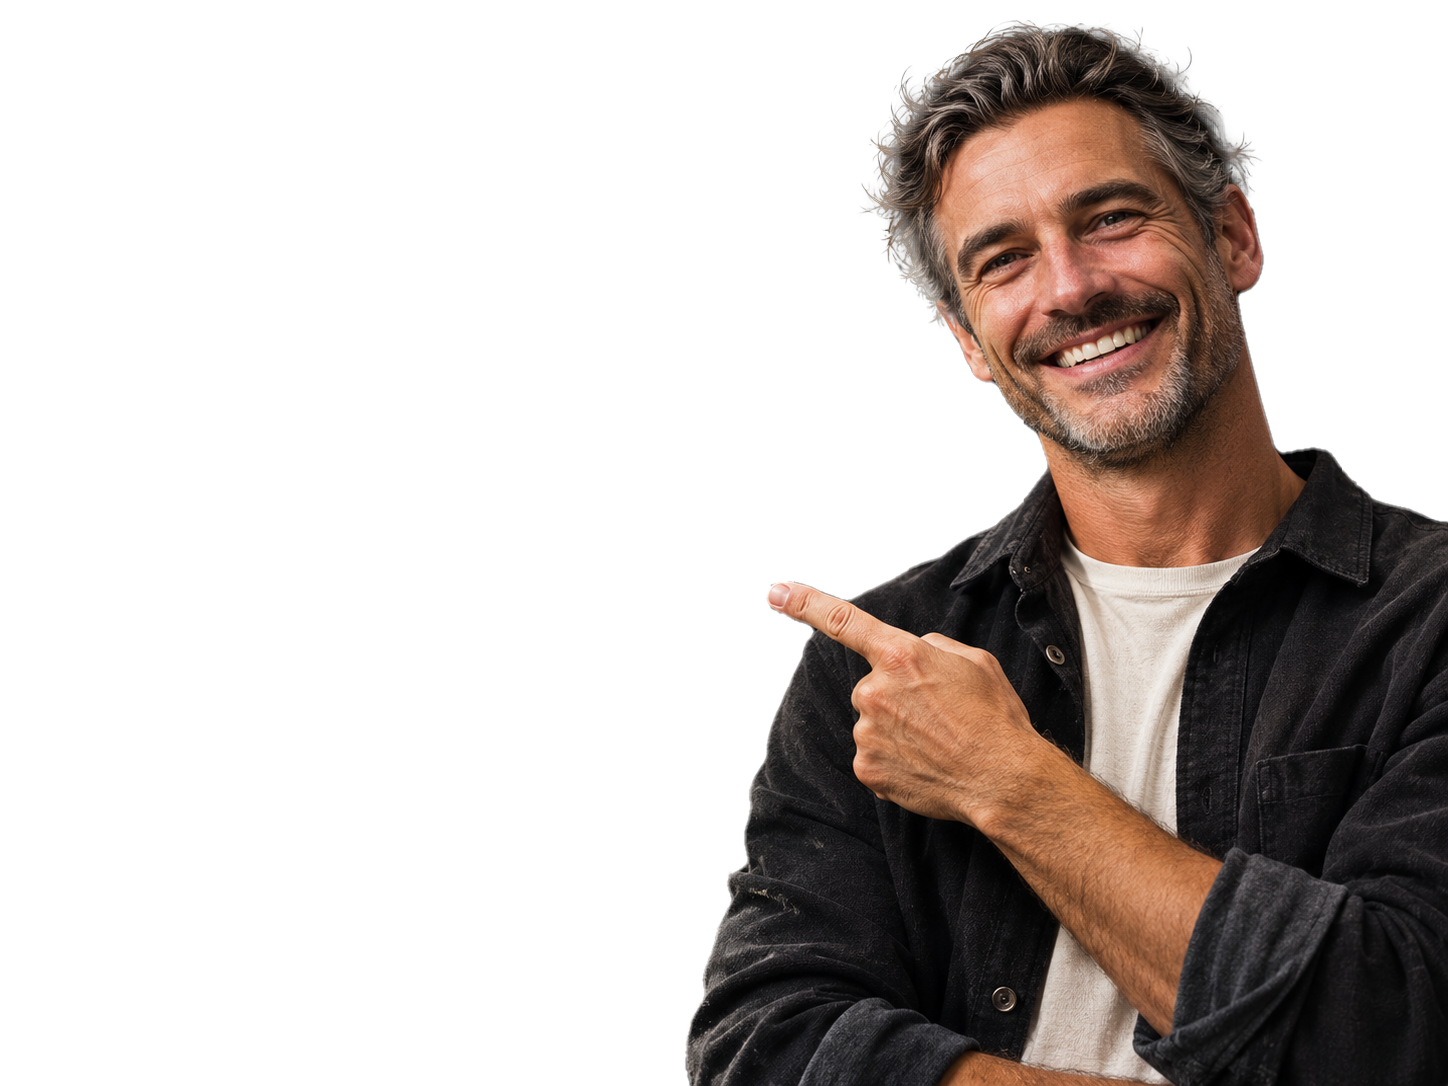
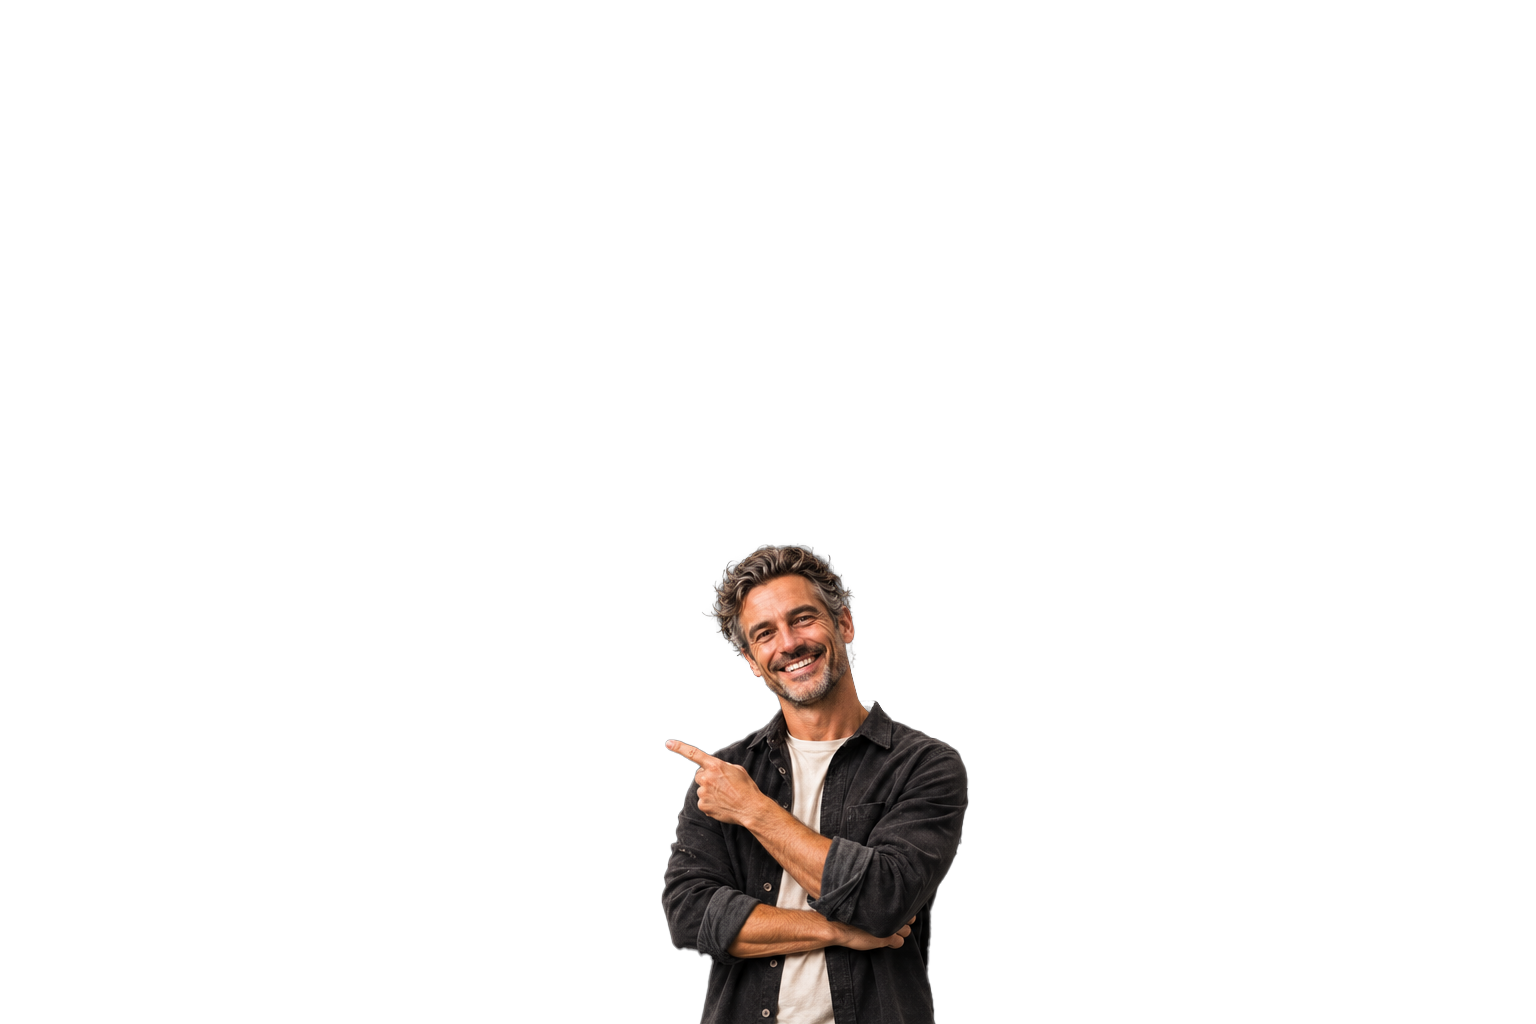
Update pointing man image to full-body version

diff --git a/index.html b/index.html
@@ -11,7 +11,7 @@
   <link href="https://fonts.googleapis.com/css2?family=Archivo+Black&family=Hanken+Grotesk:wght@400;500;600;700&family=IBM+Plex+Mono:wght@400;500;600;700&display=swap" rel="stylesheet">
   <link rel="stylesheet" href="css/style.css?v=20261025">
   <link rel="stylesheet" href="css/reviews.css?v=3">
-  <link rel="stylesheet" href="css/brutalist-theme.css?v=11">
+  <link rel="stylesheet" href="css/brutalist-theme.css?v=12">
   <script src="js/main.js" defer></script>
   <script src="js/reviews-data.js?v=1" defer></script>
   <script src="js/reviews.js?v=1" defer></script>
@@ -81,7 +81,7 @@
     </section>
     <section class="services-preview section-pad" id="services-preview">
       <div class="container">
-        <figure class="man-pointer"><img src="Images/man_pointing.png" alt="Smiling man pointing towards the services" width="1448" height="1086" loading="lazy" decoding="async"></figure>
+        <figure class="man-pointer"><img src="Images/man_pointing.png" alt="Smiling man pointing towards the services" width="1536" height="1024" loading="lazy" decoding="async"></figure>
         <div class="section-heading"><div><p class="eyebrow">Ways I can help</p><h2>Different needs call for<br><em>different builds.</em></h2></div><a class="text-link" href="services.html">More about services <span aria-hidden="true">→</span></a></div>
         <div class="service-cards">
           <a class="service-card" href="services.html#websites"><svg class="lo-art lo-build" viewBox="0 140 370 260" aria-hidden="true" focusable="false"><circle class="lo-ring" cx="185" cy="233" r="150"/><circle class="lo-ring lo-ring-in" cx="185" cy="233" r="104"/><g class="lo-drift"><rect class="lo-line" style="--d:0s" pathLength="1" x="64" y="150" width="246" height="232" rx="10"/><path class="lo-line" style="--d:.5s" pathLength="1" d="M64 176H310"/><rect class="lo-block" style="--d:.9s;--x:-14px;--y:0" x="84" y="196" width="120" height="10" rx="2"/><rect class="lo-block lo-soft" style="--d:1.1s;--x:-14px;--y:0" x="84" y="214" width="84" height="10" rx="2"/><rect class="lo-line" style="--d:1.3s" pathLength="1" x="222" y="196" width="68" height="64" rx="5"/><path class="lo-line lo-thin" style="--d:1.7s" pathLength="1" d="M84 242H190M84 252H176M84 262H184"/><rect class="lo-accent" style="--d:2s;--x:0;--y:10px" x="84" y="278" width="52" height="18" rx="9"/><rect class="lo-line" style="--d:2.3s" pathLength="1" x="84" y="316" width="58" height="50" rx="4"/><rect class="lo-line" style="--d:2.45s" pathLength="1" x="154" y="316" width="58" height="50" rx="4"/><rect class="lo-line" style="--d:2.6s" pathLength="1" x="224" y="316" width="58" height="50" rx="4"/><rect class="lo-accent lo-px" style="--d:2.9s;--x:-24px;--y:-18px" x="276" y="248" width="8" height="8"/><rect class="lo-accent lo-px" style="--d:3.1s;--x:18px;--y:-22px" x="94" y="326" width="7" height="7"/><rect class="lo-accent lo-px" style="--d:3.3s;--x:-16px;--y:20px" x="234" y="348" width="7" height="7"/><g class="lo-hover"><path class="lo-line lo-thin" pathLength="1" d="M310 214H334M310 306H334M64 392H310"/><rect class="lo-accent" x="338" y="206" width="7" height="7"/><rect class="lo-accent" x="164" y="338" width="7" height="7"/></g></g></svg><span class="card-number">01 / WEBSITE</span><h3>WordPress or custom</h3><p>Choose an editable platform or a tailored build based on your content, goals, and budget.</p><span class="service-card-detail">Website design · Development</span><span class="card-arrow" aria-hidden="true">↗</span></a>

diff --git a/css/brutalist-theme.css b/css/brutalist-theme.css
@@ -391,8 +391,8 @@ body.home .services-preview { overflow: clip; }
 body.home .services-preview .container { position: relative; }
 body.home .services-preview .service-cards { position: relative; z-index: 2; }
 body.home .services-preview .section-heading { position: relative; z-index: 2; flex-direction: column; align-items: flex-start; gap: 22px; }
-body.home .man-pointer { position: absolute; z-index: 0; top: -30px; right: 2%; width: min(32%, 380px); aspect-ratio: 758 / 1086; margin: 0; pointer-events: none; }
-body.home .man-pointer img { display: block; width: 100%; height: 100%; object-fit: cover; object-position: 100% 0; filter: drop-shadow(0 18px 30px rgba(0, 0, 0, .45)); -webkit-mask-image: linear-gradient(#000 78%, transparent); mask-image: linear-gradient(#000 78%, transparent); }
+body.home .man-pointer { position: absolute; z-index: 0; top: -30px; right: 2%; width: min(32%, 380px); aspect-ratio: 350 / 494; margin: 0; overflow: hidden; pointer-events: none; }
+body.home .man-pointer img { position: absolute; display: block; width: 438.9%; max-width: none; height: auto; left: -182.9%; top: -107.3%; filter: drop-shadow(0 18px 30px rgba(0, 0, 0, .45)); -webkit-mask-image: linear-gradient(#000 78%, transparent); mask-image: linear-gradient(#000 78%, transparent); }
 @media (max-width: 760px) {
   body.home .man-pointer { position: relative; top: auto; right: auto; width: min(62%, 240px); margin: 0 0 -70px auto; }
 }
